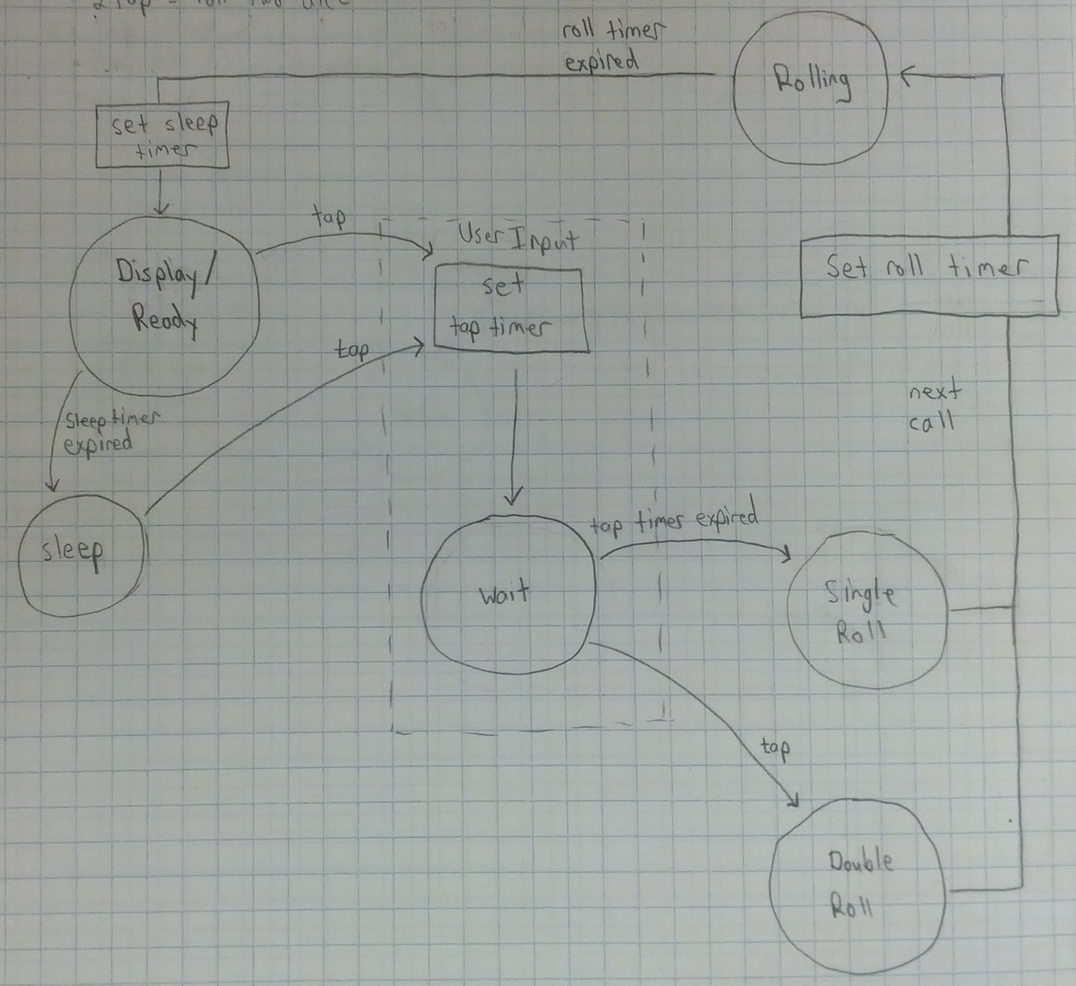
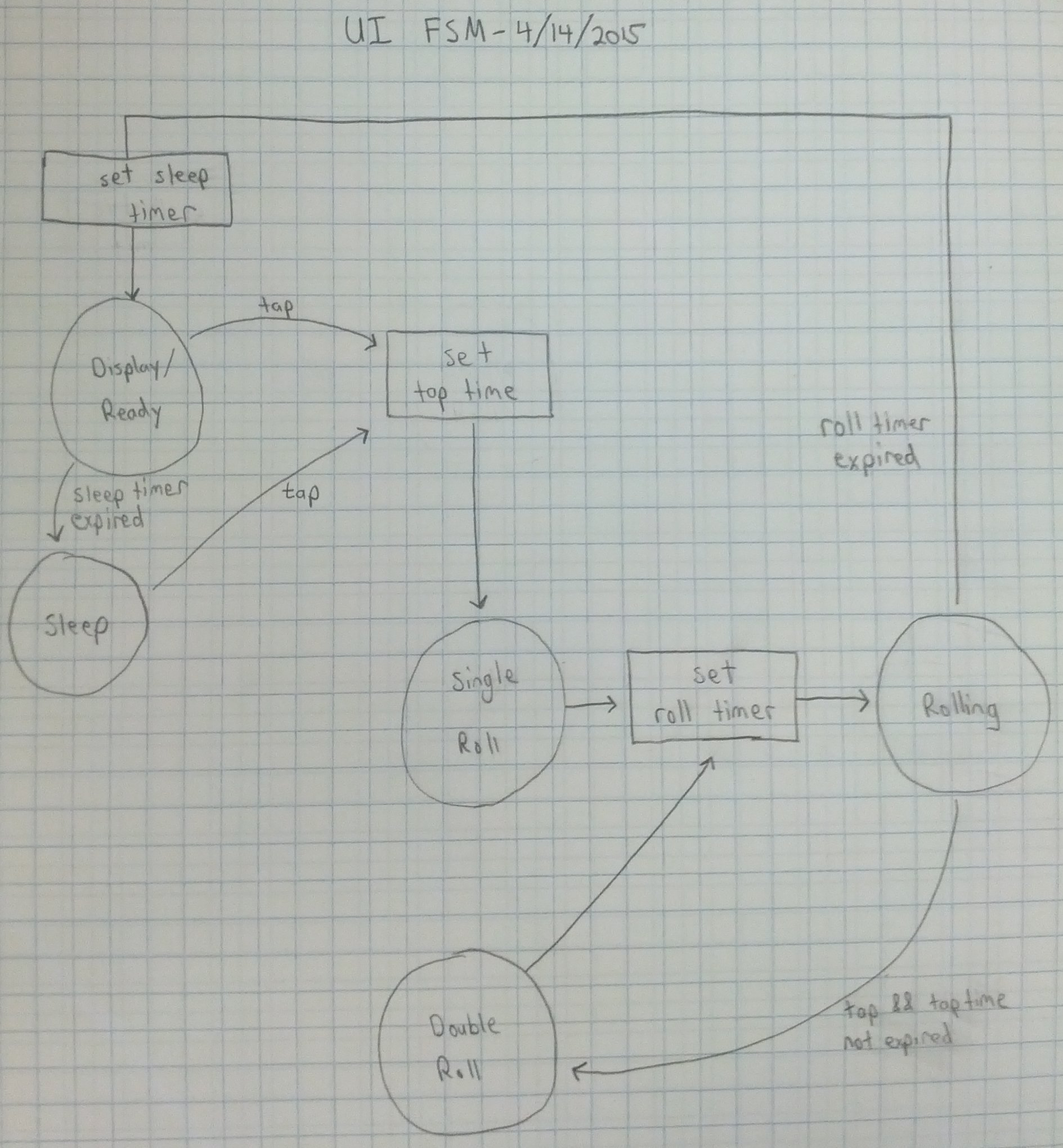
Modified FSM to remove delay previously necessary to enter single roll mode

diff --git a/src/main.c b/src/main.c
@@ -3,7 +3,7 @@
  * @file    dice.c
  * @author  Stephen Papierski <stephenpapierski@gmail.com>
  * @date    2015-03-25 17:08:57
- * @edited  2015-04-12 01:29:20
+ * @edited  2015-04-13 09:56:01
  */
 
 #define F_CPU 16000000
@@ -65,7 +65,7 @@ int main(void){
                 //check for input
                 if (piezo_get_state() == TAP){
                     piezo_tap_time = 0;
-                    dice_state = USER_INPUT;
+                    dice_state = ROLL1;
                 }else if (roll_time > DICE_TIMEOUT){
                     dice_state = SLEEP;
                 }else{
@@ -92,17 +92,8 @@ int main(void){
             case SLEEP:
                 //put dice to sleep
                 led_state = BLANK;
-                //power_down();
+                //TODO power_down();
                 dice_state = READY;
-                break;
-            case USER_INPUT:
-                if (piezo_get_state() == TAP){
-                    intr_disable_piezo();
-                    dice_state = ROLL2;
-                }else if (piezo_tap_time > DOUBLE_TAP_INTERVAL){
-                    intr_disable_piezo();
-                    dice_state = ROLL1;
-                }
                 break;
             case ROLL1:
                 //roll 1 dice
@@ -122,14 +113,16 @@ int main(void){
                 dice_state = ROLLING;
                 break;
             case ROLLING:
-                while (roll_time < ROLL_TIME){
-                    if (face_time >= FACE_TIME){
-                        led_state = led_rand_face();
-                        face_time = 0;
-                    }
+                if ((piezo_get_state() == TAP) && (piezo_tap_time < DOUBLE_TAP_INTERVAL)){
+                    intr_disable_piezo();
+                    dice_state = ROLL2;
+                }else if (roll_time > ROLL_TIME){
+                    intr_enable_piezo();
+                    dice_state = READY;
+                }else if (face_time >= FACE_TIME){
+                    led_state = led_rand_face();
+                    face_time = 0;
                 }
-                intr_enable_piezo();
-                dice_state = READY;
                 break;
         }
     }

diff --git a/src/config.h b/src/config.h
@@ -3,14 +3,14 @@
  * @file    config.h
  * @author  Stephen Papierski <stephenpapierski@gmail.com>
  * @date    2015-04-11 23:36:49
- * @edited  2015-04-12 01:28:28
+ * @edited  2015-04-13 09:56:04
  */
 
 #ifndef CONFIG_H
 #define CONFIG_H
 
 //how close two taps must be to be a double tap (ms)
-#define DOUBLE_TAP_INTERVAL     250
+#define DOUBLE_TAP_INTERVAL     500
 
 //how long the dice "rolls" for (ms)
 #define ROLL_TIME               1000
